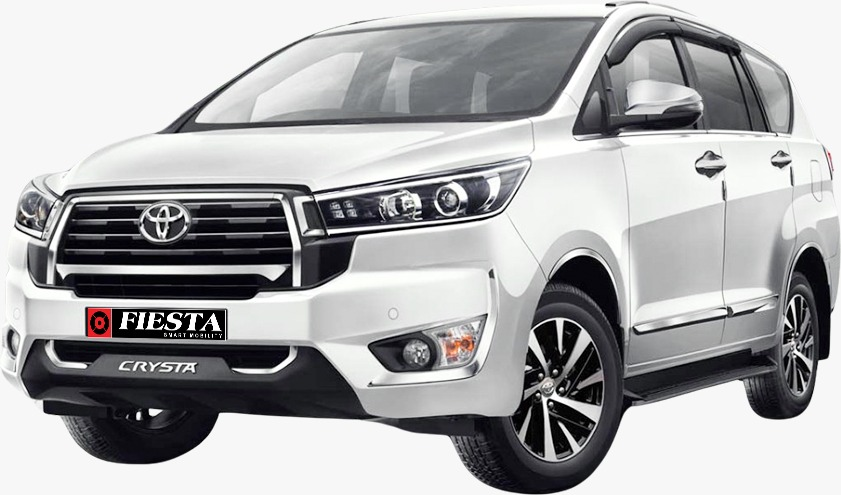
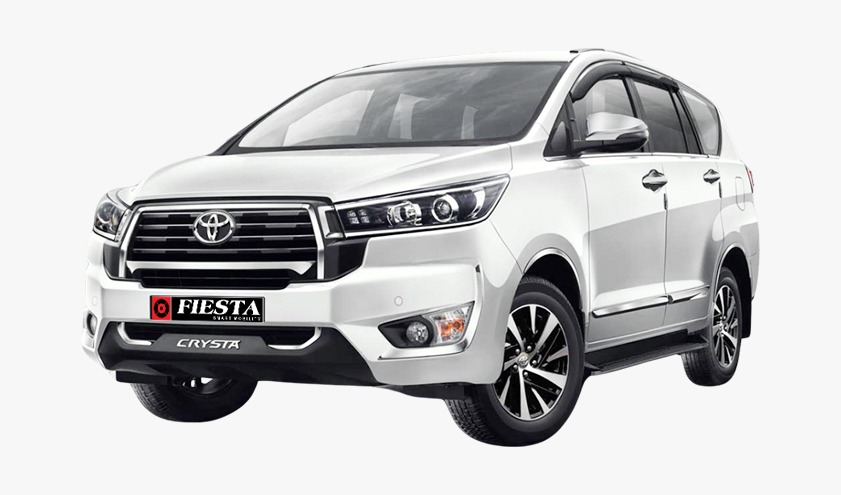
update

diff --git a/src/data/blogPosts.ts b/src/data/blogPosts.ts
@@ -28,7 +28,7 @@ export type ContentBlock =
     | { type: 'h6'; text: string }
     | { type: 'ul'; items: string[] }
     | { type: 'ol'; items: string[] }
-    | { type: 'image'; src: string; alt: string; caption?: string }
+    | { type: 'image'; src: string; alt: string; caption?: string; width?: number; height?: number; contain?: boolean }
     | {
         type: 'cta';
         image: string;
@@ -617,23 +617,23 @@ export const blogPosts: BlogPost[] = [
     // 5
     {
         slug: "top-shuttle-service-solutions-for-your-daily-commute-needs",
-        title: "Are you Looking for Top Shuttle Service Solutions for Your Daily Commute Needs ?",
+        title: "Are you Looking for Top Shuttle Service Solutions for Your Daily Commute Needs?",
         date: "May 24, 2025",
         image: "/images/blog/post-5.jpg",
         bannerImage: "/images/blog/enhancing-the-mobility-of-people/automotive-dealership-store.jpg",
         excerpt: "Finding a reliable, efficient, and comfortable mode of transportation can make all the difference when managing the hustle and bustle of daily commuting.",
         content: [
-            { type: 'image', src: "/images/blog/top-shuttle-service-solutions-for-your-daily-commute-needs/1.jpeg", alt: "Car Rental in Chennai with Driver" },
-            { type: 'p', text: "Finding a reliable, efficient, and comfortable mode of transportation can make all the difference when managing the hustle and bustle of daily commuting. If you're heading to work, school, or simply navigating your city, shuttle services, like the shuttl app or an art transportation app, have emerged as practical solutions for everyday travel needs." },
+            { type: 'image', src: "/images/blog/top-shuttle-service-solutions-for-your-daily-commute-needs/1.jpeg", alt: "Toyota Innova Crysta shuttle vehicle", width: 720, height: 350, contain: true },
+            { type: 'p', text: "Finding a reliable, efficient, and comfortable mode of transportation can make all the difference when managing the hustle and bustle of daily commuting. If you're heading to work, school, or simply navigating your city, shuttle services, like the Fiesta app or a smart transportation app, have emerged as practical solutions for everyday travel needs." },
             {
                 type: 'p',
-                text: "With the increasing demand for sustainable and time-saving transport options, many commuters seek solutions to avoid mind numbing traffic, wondering why struggle with the hassle when there are better options . , shuttling bus services, including the shuttl bus, are rapidly expanding, offering more innovation and customer focus than ever. Be sure to stay up to date with the booking key features these apps offer, especially if you’re planning your first ride."
+                text: "With the increasing demand for sustainable and time-saving transport options, many commuters seek solutions to avoid mind-numbing traffic, wondering why struggle with the hassle when there are better options. Shuttle bus services, including Fiesta's shuttle service, are rapidly expanding, offering more innovation and customer focus than ever. Be sure to stay up to date with the key booking features these apps offer, especially if you’re planning your first ride."
             },
             {
                 type: 'p',
-                text: "From corporate rides and employee commutes to neighbourhood ride shares and app-based booking tools, a wide range of mobility solutions, including platforms like the Shuttl app and ART Transportation app, are tailored to suit different commuting needs, helping you discover the quickest route. Don’t miss the first ride offers and booking key features of these rapidly expanding platforms to stay up to date on safer, smoother commutes with a modern shuttle bus experience."
+                text: "From corporate rides and employee commutes to neighbourhood ride shares and app-based booking tools, a wide range of mobility solutions, including platforms like the Fiesta app and Fiesta Smart Mobility, are tailored to suit different commuting needs, helping you discover the quickest route. Don’t miss the booking features of these rapidly expanding platforms to stay up to date on safer, smoother commutes with a modern shuttle bus experience."
             },
-            { type: 'image', src: "/images/blog/top-shuttle-service-solutions-for-your-daily-commute-needs/2.jpeg", alt: "Car Rental in Chennai with Driver" },
+            { type: 'image', src: "/images/blog/top-shuttle-service-solutions-for-your-daily-commute-needs/2.jpeg", alt: "Corporate shuttle bus solutions", width: 720, height: 400 },
 
             {
                 type: 'h5',
@@ -645,7 +645,7 @@ export const blogPosts: BlogPost[] = [
             },
             {
                 type: 'p',
-                text: "Whether you’re looking to ride from home and office locations or use the largest office commute app to organize daily travel, the features below, including internet banking options, can make or break your experience, allowing you to travel to your office comfortably."
+                text: "Whether you’re looking to ride from home and office locations or use a corporate commute app to organize daily travel, the features below, including convenient payment options, can make or break your experience, allowing you to travel to your office comfortably."
             },
 
             {
@@ -654,11 +654,11 @@ export const blogPosts: BlogPost[] = [
             },
             {
                 type: 'p',
-                text: "What if your shuttle is running late? Or changes the pickup point for the day? Without live updates, you may be waiting in the wrong spot or wasting time. "
+                text: "What if your shuttle is running late? Or changes the pickup point for the day? Without live updates, you may be waiting in the wrong spot or wasting time."
             },
             {
                 type: 'p',
-                text: "Look for services that include booking power packed key features, such as exciting offers and real-time notifications via SMS or their app. These alerts save you from surprises and missed rides, and it’s also helpful to have contact details readily available ."
+                text: "Look for services that include key features such as real-time notifications via SMS or their app. These alerts save you from surprises and missed rides, and it’s also helpful to have support contact details readily available."
             },
 
             {
@@ -671,7 +671,7 @@ export const blogPosts: BlogPost[] = [
             },
             {
                 type: 'p',
-                text: "Some services, especially those using the Drive FindMyCab App, offer flexible pickup options like the nearest pick spots along the fastest route, often close to residential or business hubs with affordable parking spaces add nearby."
+                text: "Some services, especially those using the Fiesta app, offer flexible pickup options like the nearest pick spots along the fastest route, often close to residential or business hubs with affordable parking spaces nearby."
             },
 
             {
@@ -680,7 +680,7 @@ export const blogPosts: BlogPost[] = [
             },
             {
                 type: 'p',
-                text: "Is there an SOS button in the app? Can you share your ride details with your family? What’s the process if something goes wrong? Choose a shuttle bus with strong security features—live tracking, sharing ride details with family verified drivers, a SOS alert, nd responsive customer support. It’s even better if their app includes contact details for quick help."
+                text: "Is there an SOS button in the app? Can you share your ride details with your family? What’s the process if something goes wrong? Choose a shuttle bus with strong security features—live tracking, sharing ride details with family, verified drivers, an SOS alert, and responsive customer support. It’s even better if their app includes contact details for quick help."
             },
             {
                 type: 'h5',
@@ -688,24 +688,24 @@ export const blogPosts: BlogPost[] = [
             },
             {
                 type: 'p',
-                text: "Not every commuter needs the same kind of vehicle. Some prefer the quiet of a car, others need more space to share with coworkers. The kind of transport option you go for depends on how far you need to travel, how many people are with you, and the level of comfort you’re after — and in different cities, and in different cities, these choices tend to differ just as widely, especially in other cities."
+                text: "Not every commuter needs the same kind of vehicle. Some prefer the quiet of a car, others need more space to share with coworkers. The kind of transport option you go for depends on how far you need to travel, how many people are with you, and the level of comfort you’re after — and these choices tend to differ widely across different cities."
             },
             {
                 type: 'p',
-                text: "A small car might work if you're commuting solo from a nearby suburb. A shuttle bus or minibus might be more practical if you’re traveling with colleagues from the same area, perhaps even just shuttle . For many, coordinating rides becomes a challenging chore, especially without smart platforms."
+                text: "A small car might work if you're commuting solo from a nearby suburb. A shuttle bus or minibus might be more practical if you’re traveling with colleagues from the same area. For many, coordinating rides becomes a challenging chore, especially without smart platforms."
             },
             {
                 type: 'p',
-                text: "And if you're using platforms like the Drive FindMyCab App or just shuttl, you’ll notice how they segment options by vehicle type, time slot, or pick-up point to meet varied needs—tailored to fit your routine and office locations. This convenience is one reason why shuttl reaches a wide range of users."
+                text: "And if you're using platforms like the Fiesta app, you’ll notice how they segment options by vehicle type, time slot, or pick-up point to meet varied needs—tailored to fit your routine and office locations. This convenience is one reason why Fiesta reaches a wide range of users."
             },
             { type: 'h6', text: "Car Shuttle Service" },
-            { type: 'p', text: "Best for 1-3 passengers traveling short distances. Ideal for someone working late or using a shuttl pass to avoid long queues and traffic jams during off-hours, perhaps while using your Apple iPad. Need quiet time before you get to the office? This suits you—especially in other cities with long commutes." },
+            { type: 'p', text: "Best for 1-3 passengers traveling short distances. Ideal for someone working late or using a shuttle pass to avoid long queues and traffic jams during off-hours. Need quiet time before you get to the office? This suits you—especially in cities with long commutes." },
             { type: 'h6', text: "Van Shuttle Service" },
             { type: 'p', text: "Good for small teams or apartment clusters. Vans often follow shorter bus routes and allow flexible pick-up points. You’ll likely recognize faces from your own building or block, though syncing times can still feel like a challenging chore." },
             { type: 'h6', text: "MUV Shuttle Service" },
-            { type: 'p', text: "MUVs are for those who want comfort and storage space. Carrying a laptop bag and lunch, or traveling in monsoon weather? This option keeps you dry, safe, and seated well, especially when traveling near gas stations or petrol pumps, while avoiding traffic jams through flooded streets." },
+            { type: 'p', text: "MUVs are for those who want comfort and storage space. Carrying a laptop bag and lunch, or traveling in monsoon weather? This option keeps you dry, safe, and seated well, while avoiding traffic jams through flooded streets." },
             { type: 'h6', text: "Mini Bus Shuttle Service" },
-            { type: 'p', text: "Used for larger groups or long-distance office zones. If you’re commuting across the city or working in IT parks, this is what most use, especially where parking spaces or proximity to gas stations add value. Common in the largest commute app networks, as shuttl reaches wider zones, where users may participate in a referrals contest ." },
+            { type: 'p', text: "Used for larger groups or long-distance office zones. If you’re commuting across the city or working in IT parks, this is what most use. Common in large commute networks, as Fiesta reaches wider zones to serve employees efficiently." },
             { type: 'h6', text: "Shuttle Vehicle Comparison Table" },
             {
                 type: 'table',
@@ -727,11 +727,11 @@ export const blogPosts: BlogPost[] = [
             },
             {
                 type: 'p',
-                text: "Fiesta makes booking, tracking, and managing rides between home and office place easier. Whether you want your first ride to be quiet solo rides, perhaps while using your apple ipad, apple airpods or group travel with flexible pick-up points, there’s something for everyone, including opportunities to win exciting prizes ."
+                text: "Fiesta makes booking, tracking, and managing rides between home and office easier. Whether you want a quiet solo ride or group travel with flexible pick-up points, there’s something for everyone."
             },
             {
                 type: 'p',
-                text: "If you’re looking for a service that combines safety, real-time updates, and affordable parking spaces that can help you save money, Fiesta – Transport Solutions is worth exploring.."
+                text: "If you’re looking for a service that combines safety, real-time updates, and convenient transport solutions that can help you save money, Fiesta Transport Solutions is worth exploring."
             }
         ],
         faqs: [

diff --git a/src/app/blog/[slug]/page.tsx b/src/app/blog/[slug]/page.tsx
@@ -274,17 +274,35 @@ export default async function BlogPostPage({ params }: PageProps) {
                       return (
                         <figure
                           key={idx}
-                          className="my-10 overflow-hidden rounded-2xl shadow-md border border-slate-100 bg-slate-50"
+                          className="my-10 overflow-hidden rounded-2xl shadow-md border border-slate-100 bg-slate-50 mx-auto w-full"
+                          style={block.width ? { maxWidth: `${block.width}px` } : undefined}
                         >
-                          <div className="relative w-full aspect-[16/9]">
-                            <Image
-                              src={block.src}
-                              alt={block.alt}
-                              fill
-                              sizes="(max-width: 1024px) 100vw, 720px"
-                              className="object-cover"
-                            />
-                          </div>
+                          {block.width && block.height ? (
+                            <div
+                              className="relative w-full"
+                              style={{
+                                aspectRatio: `${block.width} / ${block.height}`,
+                              }}
+                            >
+                              <Image
+                                src={block.src}
+                                alt={block.alt}
+                                fill
+                                sizes={`(max-width: 1024px) 100vw, ${block.width}px`}
+                                className={block.contain ? "object-contain" : "object-cover"}
+                              />
+                            </div>
+                          ) : (
+                            <div className="relative w-full aspect-[16/9]">
+                              <Image
+                                src={block.src}
+                                alt={block.alt}
+                                fill
+                                sizes="(max-width: 1024px) 100vw, 720px"
+                                className={block.contain ? "object-contain" : "object-cover"}
+                              />
+                            </div>
+                          )}
                           {block.caption && (
                             <figcaption className="px-4 py-3 text-sm text-slate-500 text-center">
                               {block.caption}

diff --git a/next-env.d.ts b/next-env.d.ts
@@ -1,6 +1,6 @@
 /// <reference types="next" />
 /// <reference types="next/image-types/global" />
-import "./.next/dev/types/routes.d.ts";
+import "./.next/types/routes.d.ts";
 
 // NOTE: This file should not be edited
 // see https://nextjs.org/docs/app/api-reference/config/typescript for more information.